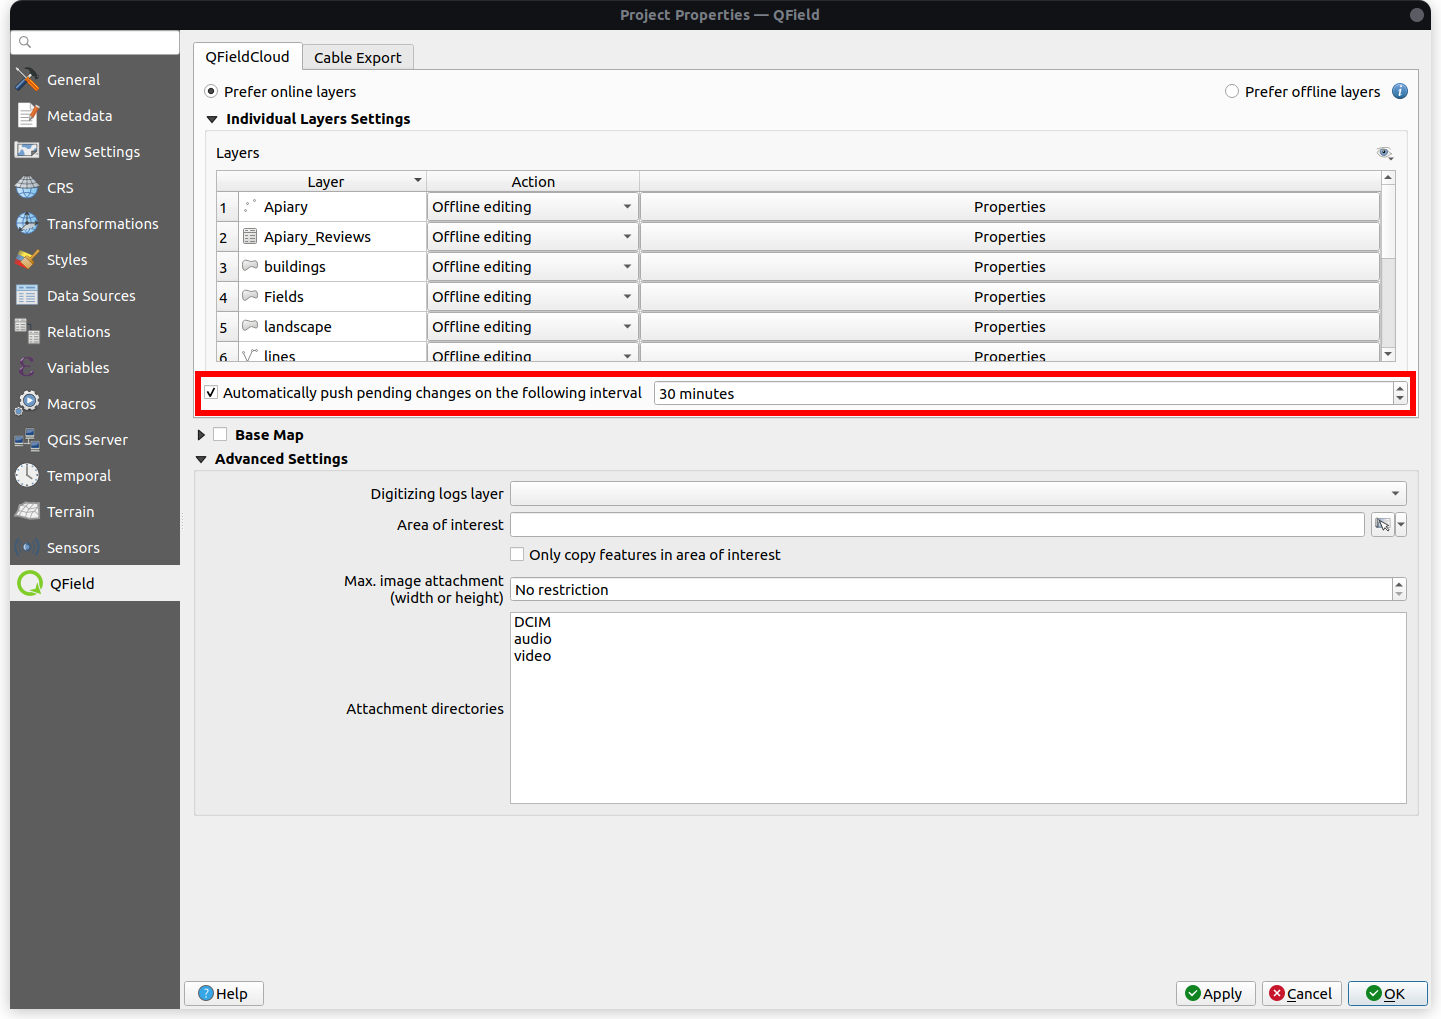
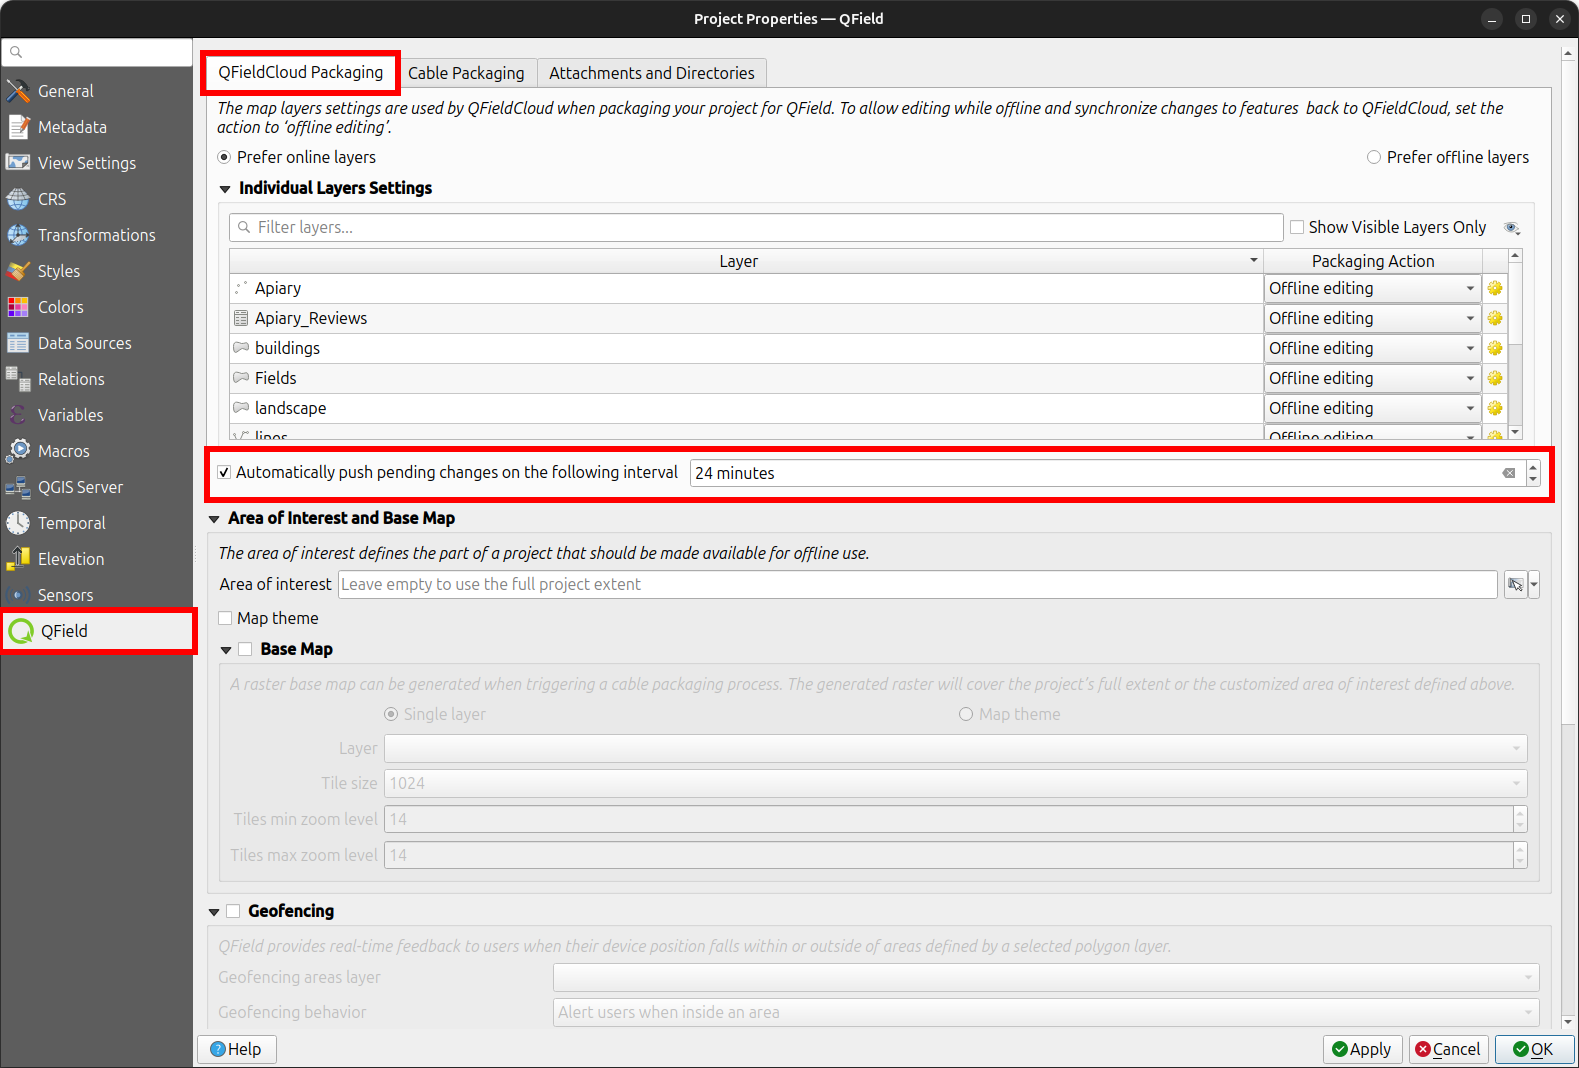
Updating Auto push pending changes in QFieldSync

diff --git a/documentation/get-started/tutorials/advanced-setup-qfc.en.md b/documentation/get-started/tutorials/advanced-setup-qfc.en.md
@@ -109,7 +109,7 @@ The functionality is activated through a project setting, allowing remote activa
 
 :material-monitor: Desktop preparation
 
-1. **Access Project Settings**: Navigate to the QField panel in the Project Settings dialog provided by the QFieldSync plugin.
+1. **Access Project Settings**: Navigate to the "QField" tab > "QFieldCloud Packaging" in the Project Settings dialog provided by the QFieldSync plugin.
 
 2. **Enable Auto-Push**: Toggle the "Automatically push pending changes on the following interval" option and establish your preferred interval.
 
